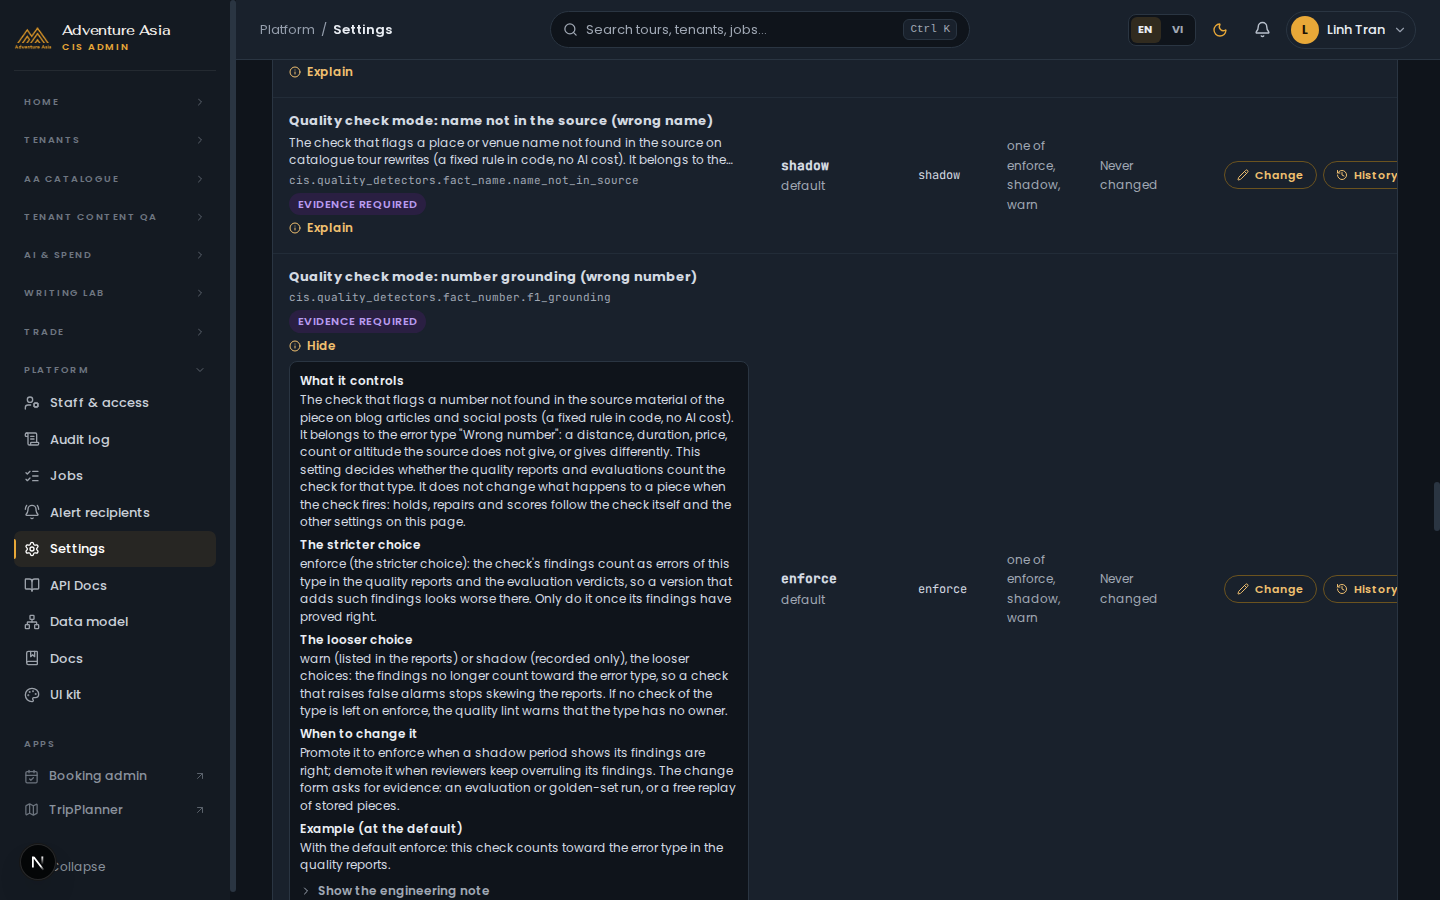
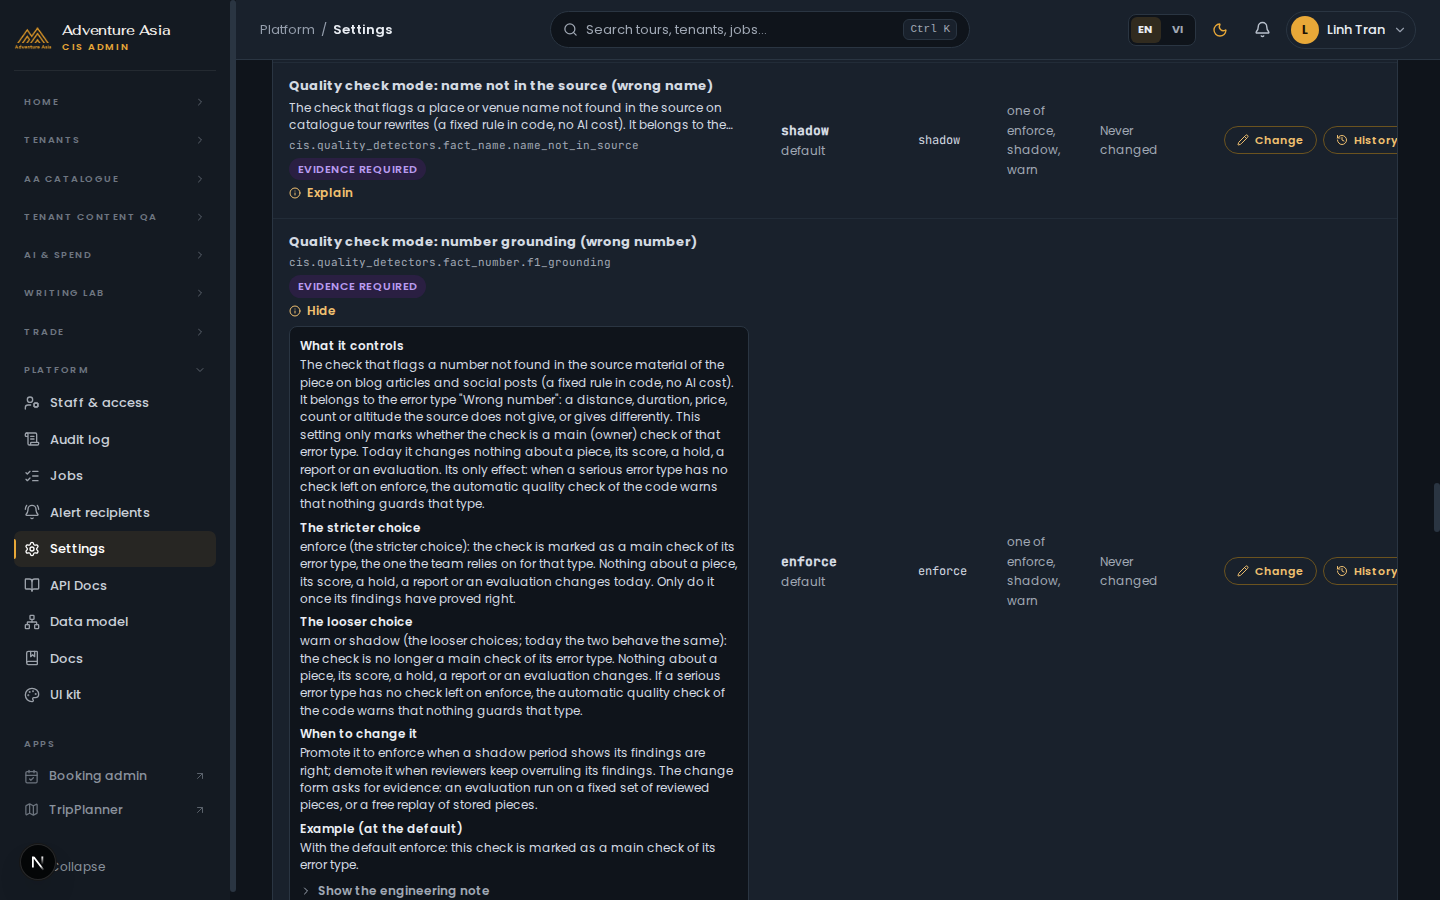
docs: settings explained evidence for the second review (topic bars, check modes, lead limits)
Refs AA-1096

diff --git a/docs/audits/2026-11-13-S279-session/settings-explained/README.md b/docs/audits/2026-11-13-S279-session/settings-explained/README.md
@@ -32,8 +32,8 @@ Reviewer độc lập nêu 7 điểm; đã sửa cả 7:
   baseline, mọi khoá đều có nhãn dễ đọc và giải thích EN + VI: 28 khoá cũ + 151 khoá chất lượng + 17 khoá TripPlanner
   (CIS 414, lane l21) + 5 khoá bài thử bộ kiểm khẳng định (CIS 416, lane l22) = 201 khoá. Migration đổi số 415 → 417
   (l21 giữ 414-415, l22 giữ 416); nhánh mang theo commit của l21/l22 để guard và post-check thấy khoá của họ.
-- 81 khoá "Quality check mode" ghi rõ: chế độ chỉ đổi cách báo cáo chất lượng và đánh giá tính bước kiểm, không đổi
-  cách xử lý bài (đã kiểm code: `registry.classes()` chỉ dùng mode để suy ra bước kiểm chính của loại lỗi).
+- 81 khoá "Quality check mode" ghi rõ: chế độ không đổi cách xử lý bài (lượt review thứ hai sửa tiếp: cũng không đổi
+  báo cáo hay đánh giá) (đã kiểm code: `registry.classes()` chỉ dùng mode để suy ra bước kiểm chính của loại lỗi).
 - "Tour rewrite attempts before human review": ghi rõ bộ viết hiện tại (chế độ contract, Dev đang chạy) tự quyết số lần
   viết lại và bỏ qua con số này; chỉ luồng chấm điểm cũ đọc nó.
 - "Agency tour rewrite: voice checks per version": bỏ câu "kiểm tra lần hai cho báo cáo ổn định hơn"; lần thứ hai chỉ
@@ -50,7 +50,7 @@ Reviewer độc lập nêu 7 điểm; đã sửa cả 7:
 | `fix-desktop-light-in-force-line.png`, `fix-desktop-dark-in-force-line.png`, `fix-mobile-light-in-force-line.png` | "Blog length per source word" đang áp dụng 3,364 (API giả): ví dụ ghi mặc định 5,8, dòng "In force now" tính 1.398 từ nguồn |
 | `fix-desktop-light-in-force-line-vi.png` | Cùng dòng bằng tiếng Việt ("Đang áp dụng") |
 | `fix-change-dialog-draft-line.png` | Hộp thoại Change, gõ `3,0`: dòng "With the value you enter" tính 1.567 từ nguồn (không lưu) |
-| `fix-*-check-modes-overview.png`, `fix-*-check-mode-explained.png`, `fix-desktop-light-check-mode-explained-vi.png` | Tab quality_detectors: nhãn "Quality check mode: ..." thay cho "fact.number · F1_grounding", giải thích nói rõ chỉ ảnh hưởng báo cáo |
+| `fix-*-check-modes-overview.png`, `fix-*-check-mode-explained.png`, `fix-desktop-light-check-mode-explained-vi.png` | Tab quality_detectors: nhãn "Quality check mode: ..." thay cho "fact.number · F1_grounding"; giải thích (chụp lại ở lượt review thứ hai) nói rõ chế độ chỉ đánh dấu bước kiểm chính của loại lỗi, không đổi bài, điểm, giữ bài, báo cáo hay đánh giá |
 | `fix-tripplanner-overview.png` | Tab TripPlanner: 17 khoá có dòng "điều chỉnh gì" |
 
 Console: 0 lỗi; không tràn ngang (1440 sáng/tối, 390 sáng). Ảnh Booking không chụp lại (đổi chữ tiêu đề và ví dụ; bố cục
@@ -72,3 +72,28 @@ không đổi).
 - 5 khoá bài thử bộ kiểm khẳng định (lane l22) rời nhánh này; lane đó ship sau dưới số 417 và tự mang giải thích trên
   dòng seed (chữ đã viết ở lượt sửa đầu của lane này, đã giao lại cho lane đó).
 - Giao diện không đổi, nên không chụp lại ảnh.
+
+## Lượt review thứ hai (13/11/2026)
+
+Reviewer độc lập đối chiếu chữ giải thích với code, nêu 5 điểm; cả 5 đúng và đã sửa trong migration CIS 416
+(`compiled_defaults.json` sinh lại):
+
+- Ngưỡng đề xuất chủ đề theo kênh (8 khoá): `needs_said` là số ký tự lịch trình viết về khoảnh khắc đó, cộng dồn mọi tour
+  (`atom_ranking.py`: `SUM(LENGTH(COALESCE(evidence, text)))`), không phải "số lần nhắc"; ví dụ đổi thành "ít nhất 150 ký
+  tự mô tả trong lịch trình".
+- `most_per_hub` (5 khoá có giới hạn hub) được giải thích riêng: 0 chặn mọi chủ đề thuộc một hub, số cao hơn là nới hơn
+  (`slate.py` từ chối khi đã đủ số chủ đề của hub). "0 = không có ngưỡng" chỉ còn áp cho các số needs_*.
+- 81 khoá chế độ bước kiểm: code chỉ dùng chế độ để suy ra bước kiểm chính (`owner_gates`), và chỉ lint chất lượng đọc nó
+  (cảnh báo khi một loại lỗi nghiêm trọng không còn bước kiểm nào ở enforce). Chữ cũ nói báo cáo và đánh giá thay đổi là
+  sai; nay ghi rõ không đổi gì ở bài, điểm, giữ bài, báo cáo hay đánh giá. "golden-set" đổi thành "một lần chạy đánh giá
+  trên một bộ bài đã được duyệt cố định".
+- 2 khoá giới hạn lead của TripPlanner (`send`, `send_ip`) không gọi model: tăng / giảm / khi nào nay nói về lead giả đổ
+  vào hộp thư và CRM của đại lý, không còn "lượt gọi có phí" hay "nhật ký gọi AI".
+- Ví dụ tiếng Việt của 6 giới hạn theo khung giờ / phút đặt số thứ tự đúng chỗ ("lead thứ 6 trong cùng một giờ").
+
+| Ảnh | Nội dung |
+|---|---|
+| `review2-en-topic-bar-explained.png`, `review2-vi-topic-bar-explained.png` | "Topic planning: bar for Facebook" mở Explain: needs_said tính bằng ký tự, most_per_hub giải thích riêng |
+| `review2-en-lead-limit-explained.png`, `review2-vi-lead-limit-explained.png` | "Leads per visitor session per hour": lead giả, hộp thư và CRM của đại lý; ví dụ VI "lead thứ 6 trong cùng một giờ" |
+
+Các ảnh `fix-*-check-mode*.png` ở trên đã chụp lại với chữ mới. Console: 0 lỗi; không tràn ngang.
